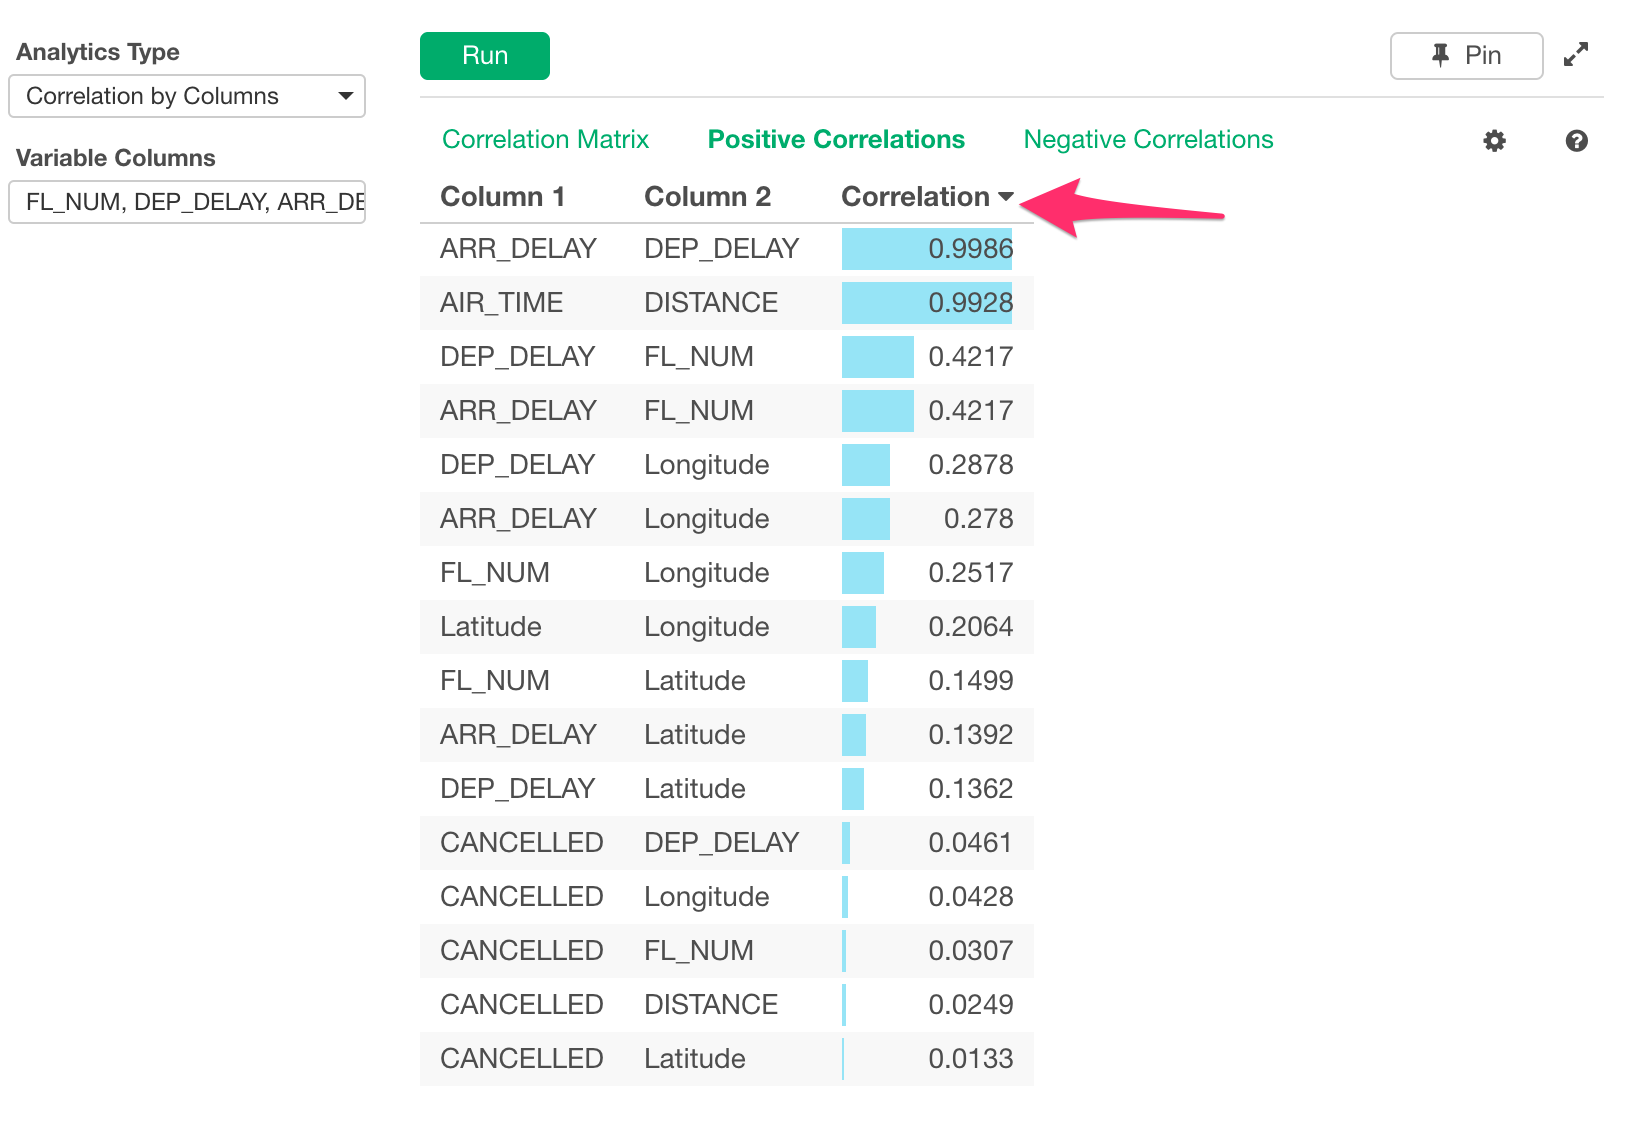
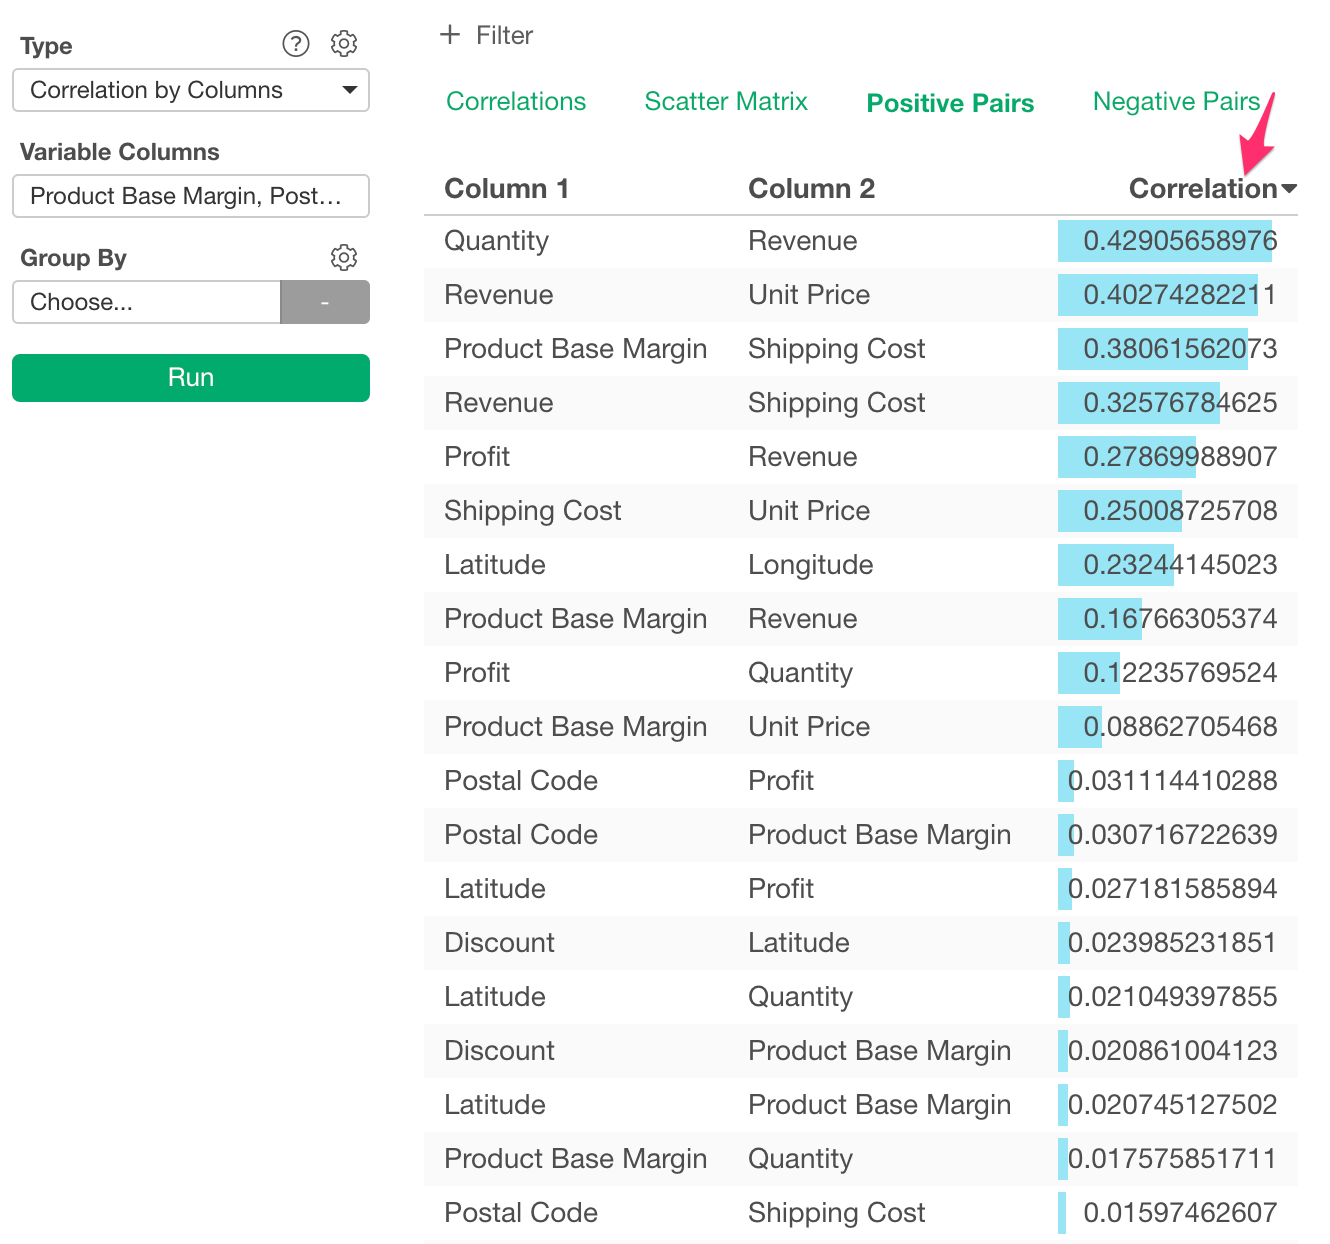
Update correlations by column.

Changed region(s): [[0.0, 0.0, 0.9865, 1.0], [0.9556, 0.0306, 0.9865, 0.0612], [0.3699, 0.0, 0.4008, 0.0306]]

diff --git a/analytics/correlation_column.md b/analytics/correlation_column.md
@@ -6,6 +6,8 @@ Calculates Correlations among columns.
 Input data should contain numeric columns.
 
   * Variable Columns - Numeric columns among which correlations are calculated.
+  * Group By - Categorical column to group by. If you specify this, the analytics runs for each group.
+
 
 ## Analytics Properties
   * Method - Method to calculate correlations. The default is "Pearson". This can be:
@@ -31,6 +33,12 @@ Input data should contain numeric columns.
 "Correlation Matrix" View displays correlations with Heatmap. Red color means it has positive correlation and Blue color means it has negative correlation. The darker the color, the stronger the correlation.
 
 ![](images/cor_by_column_matrix.png)
+
+### "Scatter Matrix" View
+"Scatter Matrix" View displays the actual data distributions for each variable combination.
+
+![](images/cor_by_column_scattermatrix.png)
+
 
 ### "Positive Correlations" View
 "Positive Correlations" View displays the most positive 100 correlations. You can click Column Header for Correlation to sort the data by Correlation value.
